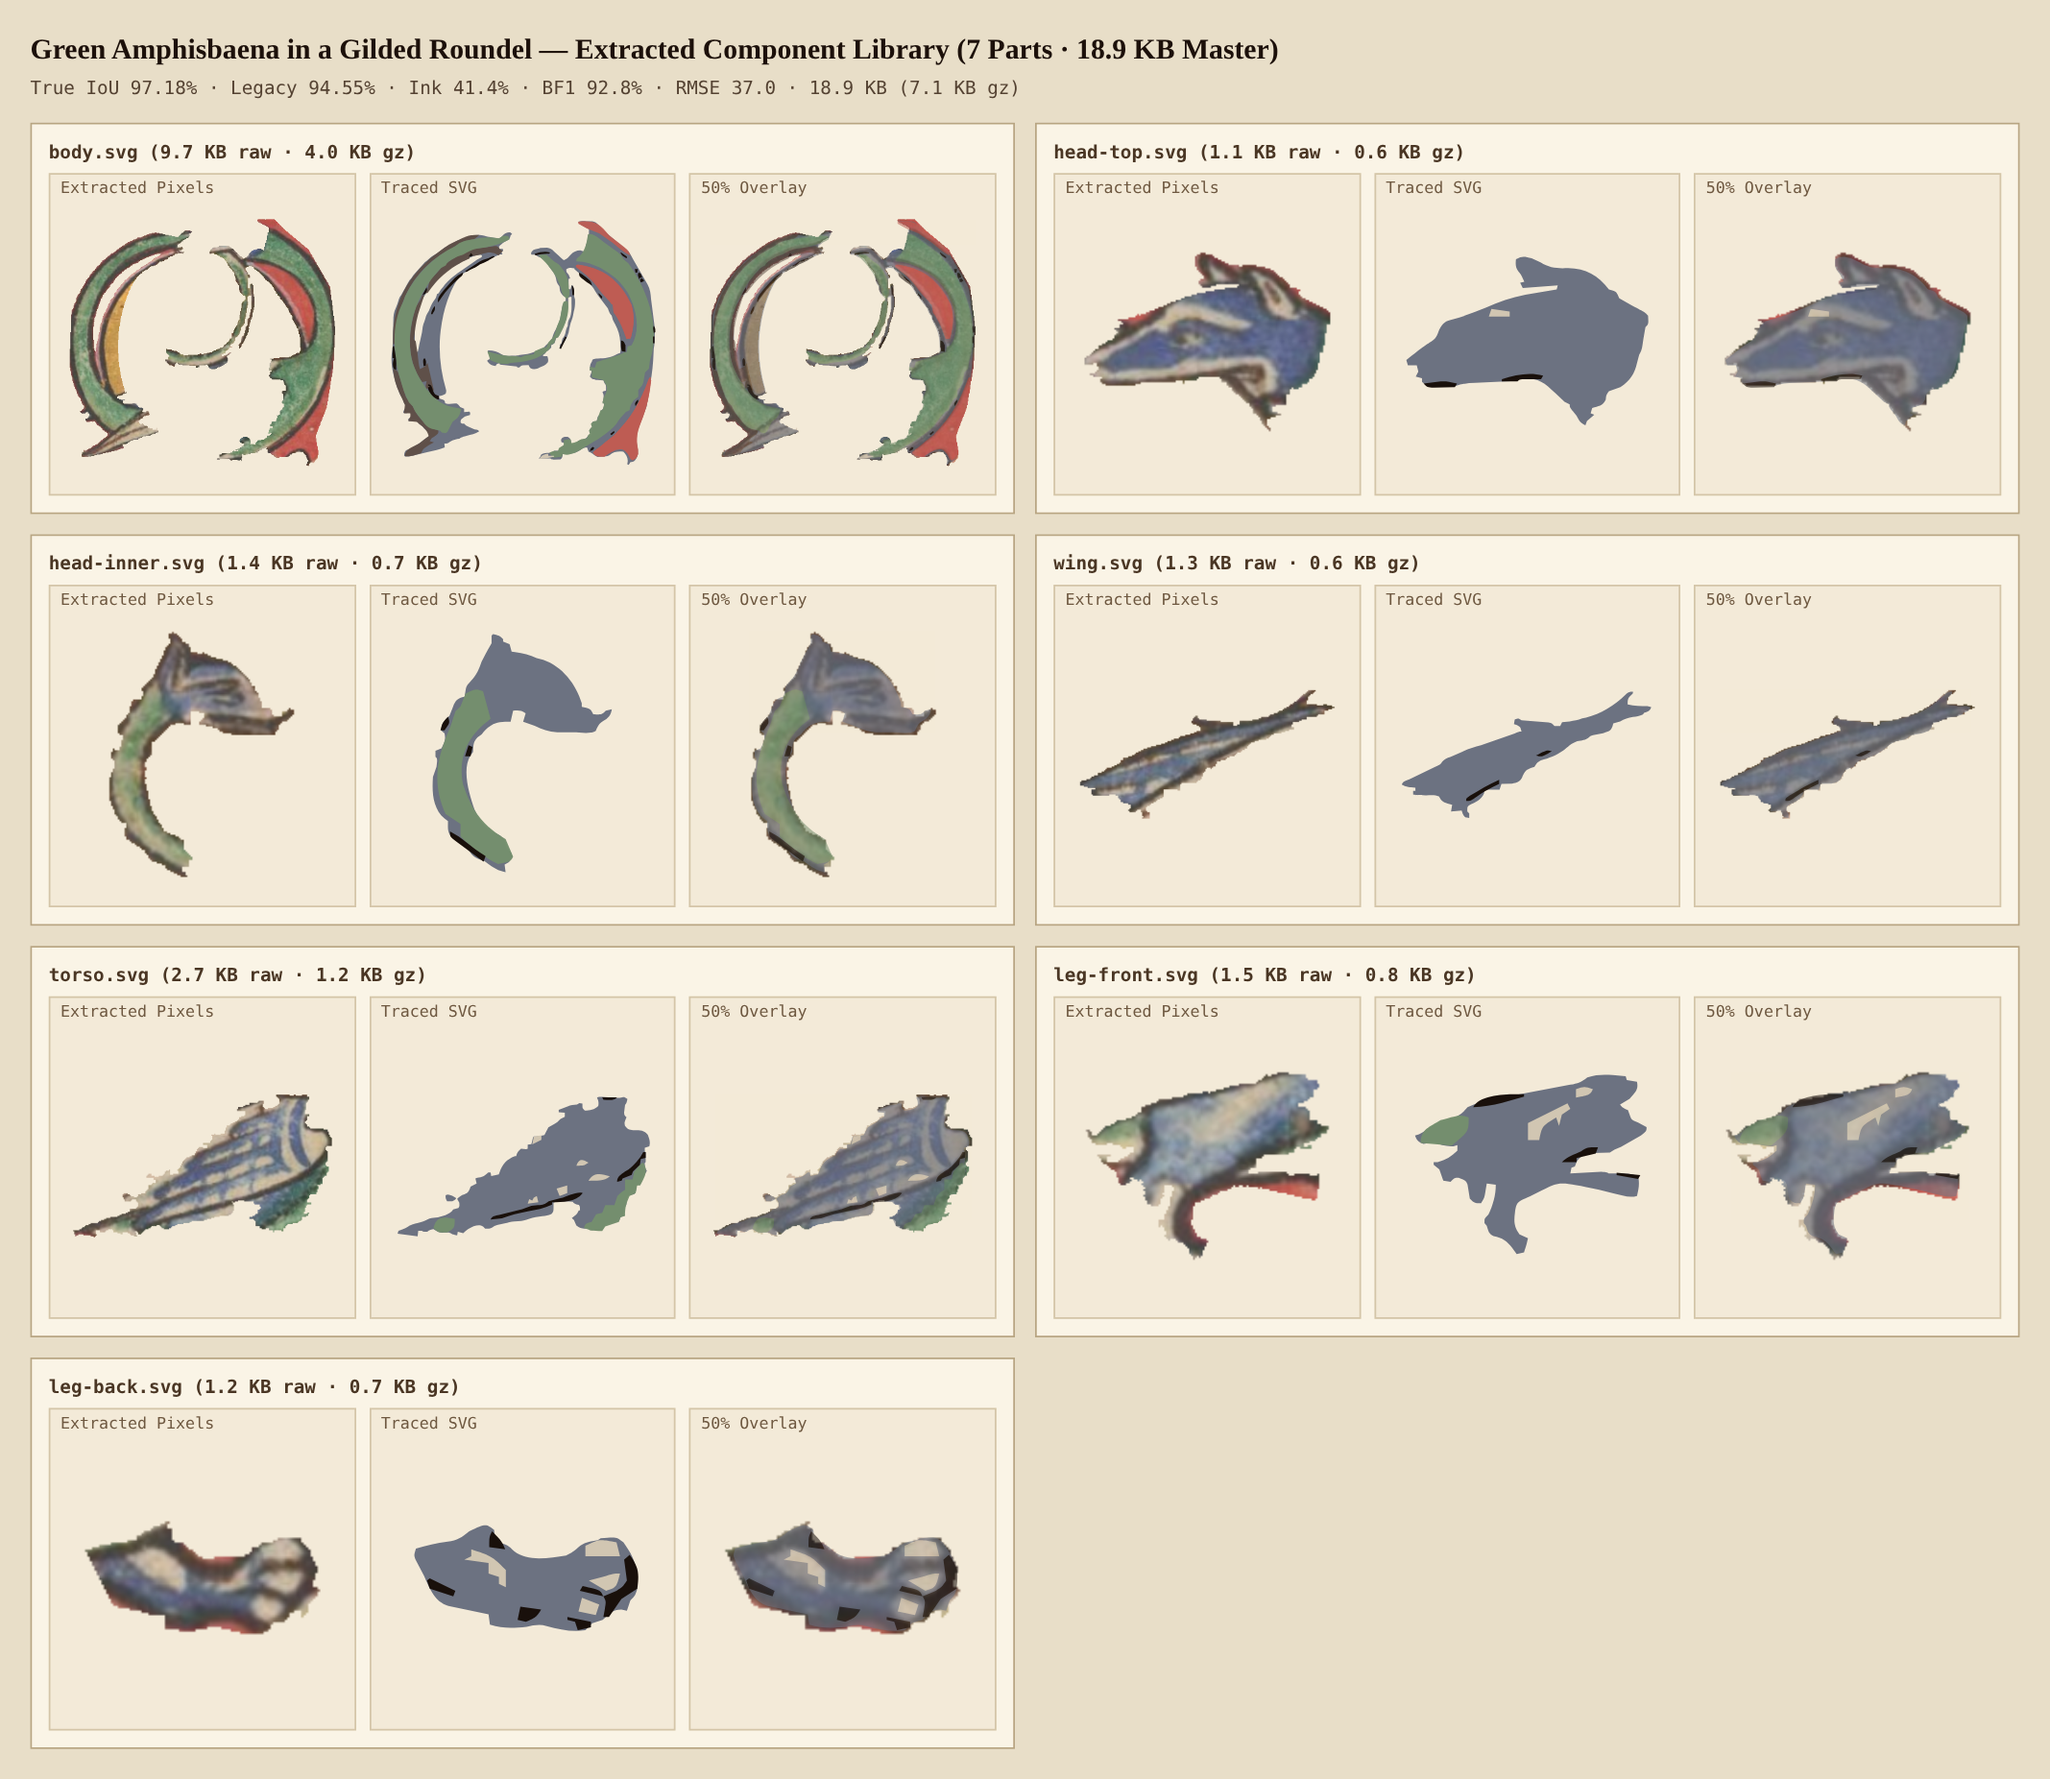
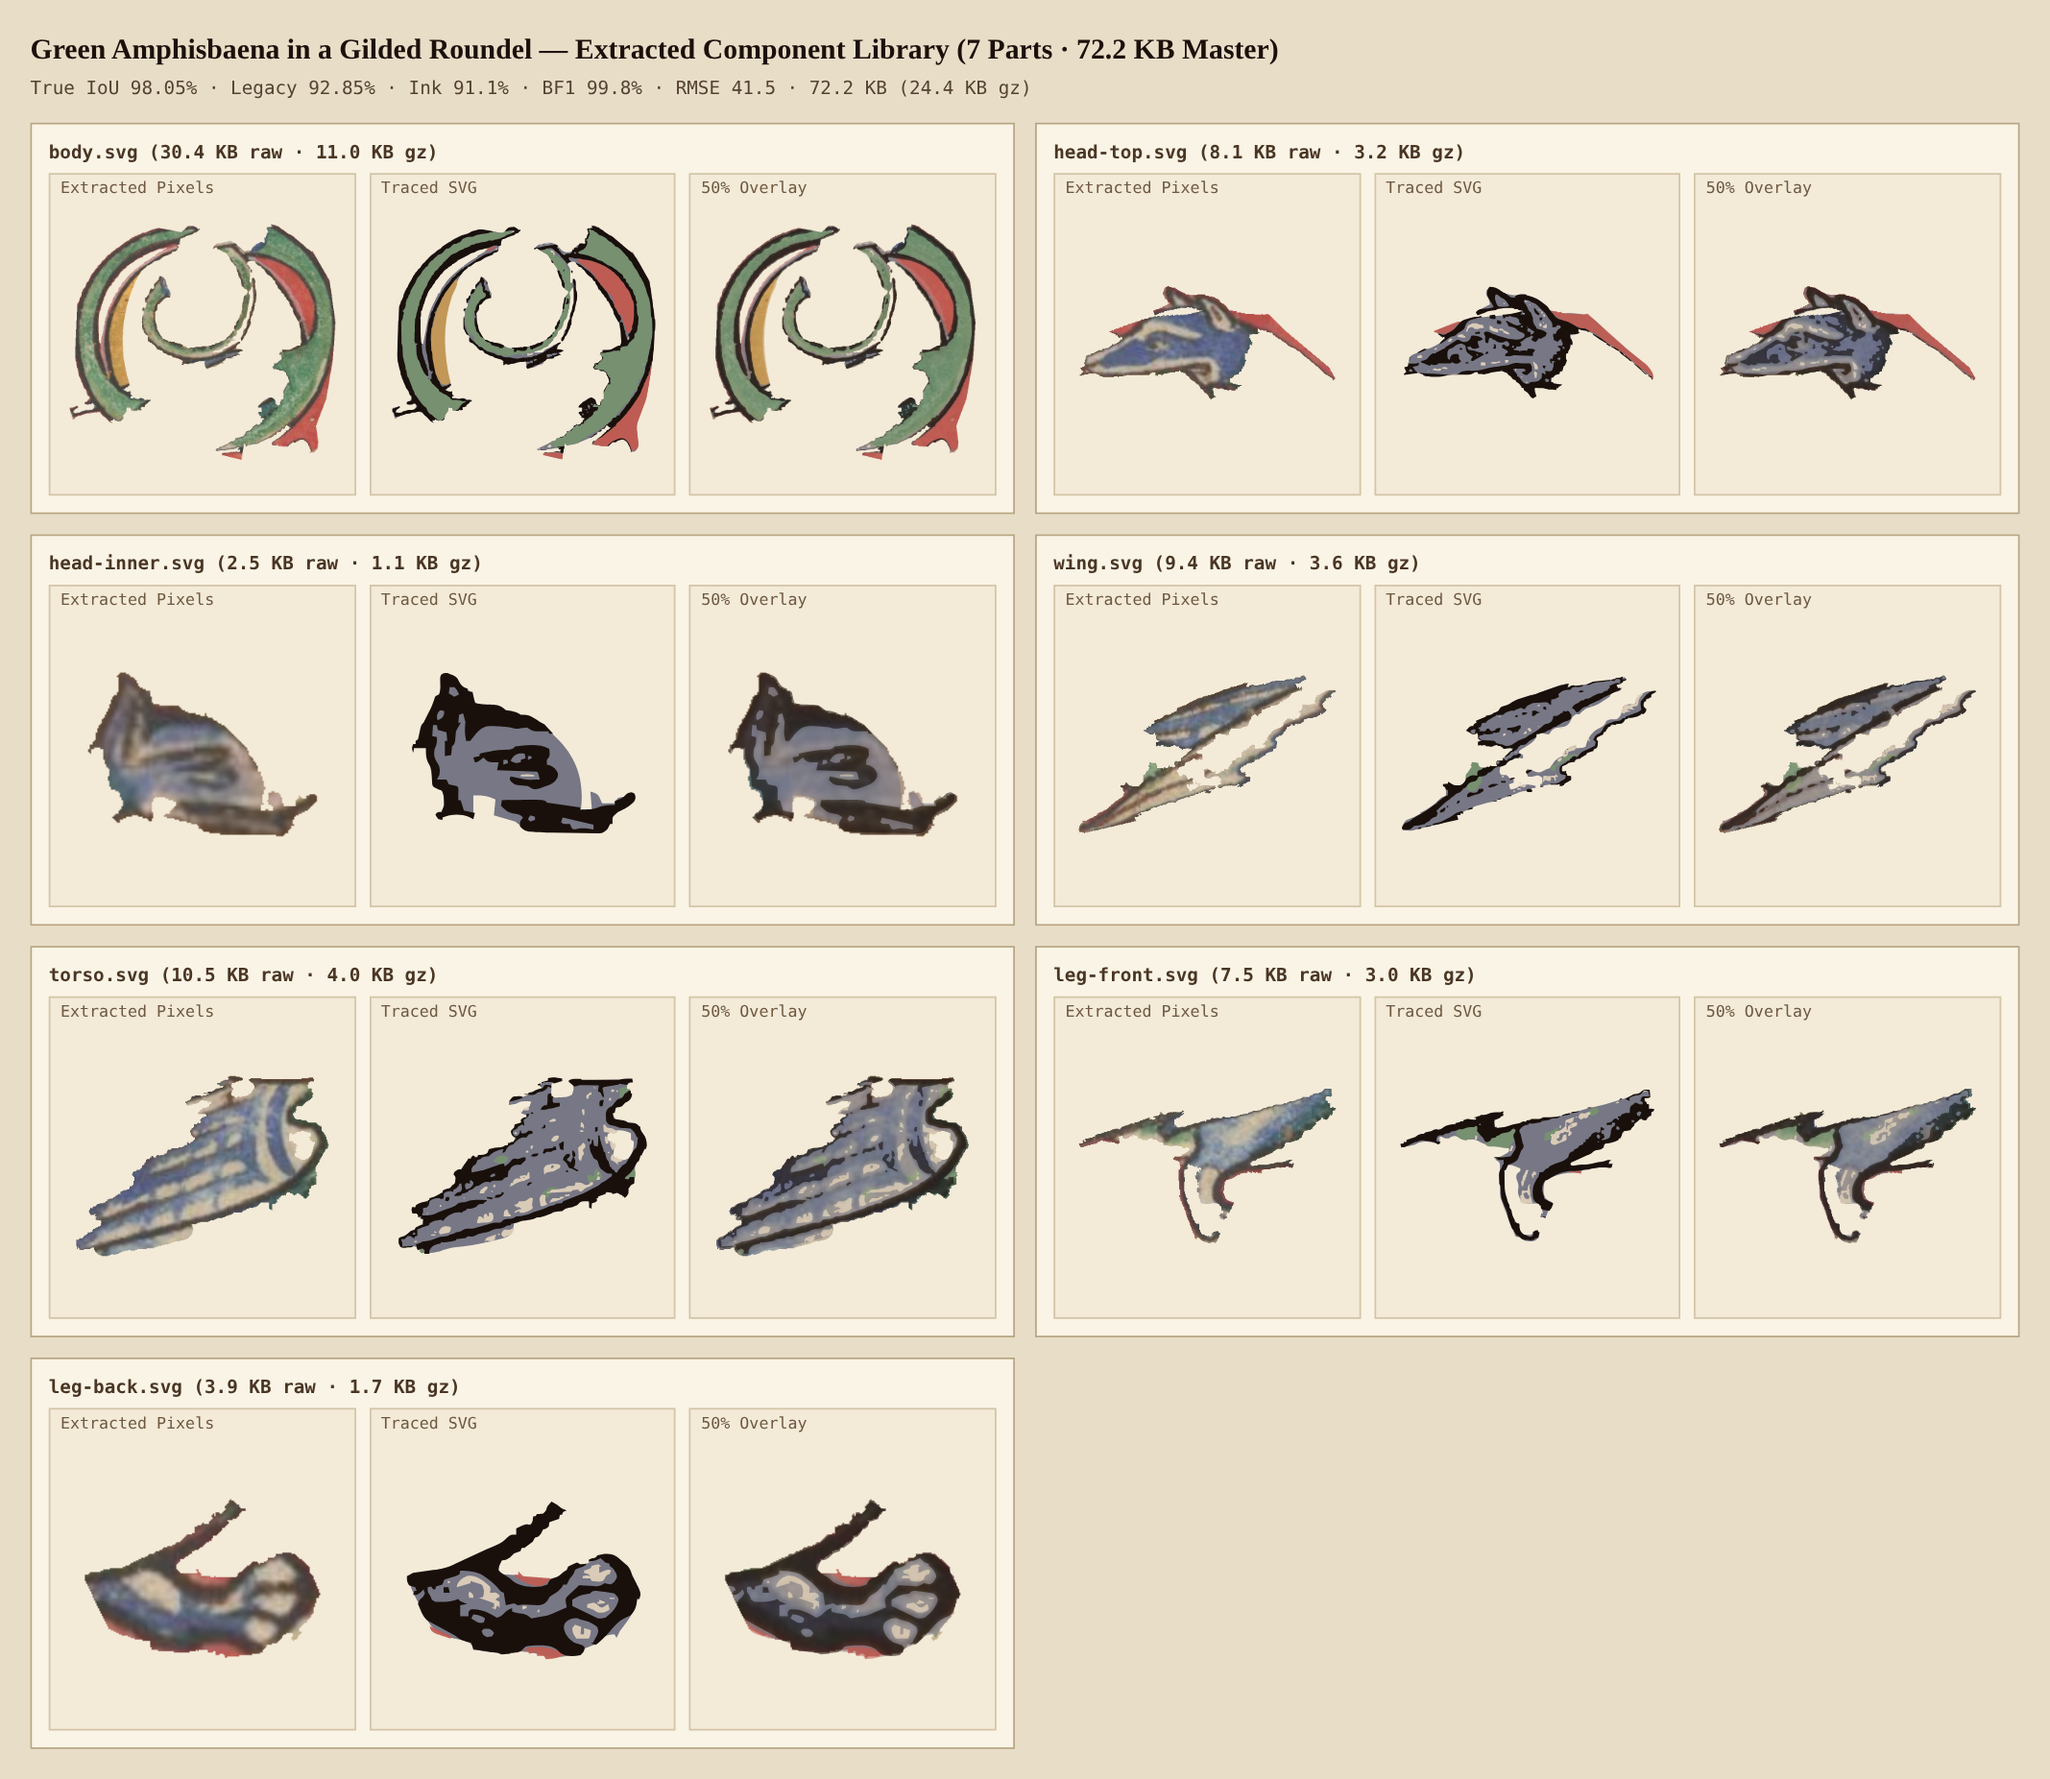
Retrace the green amphisbaena roundel with the fine-detail preset

diff --git a/docs/art/bestiary/traced/QUEUE.md b/docs/art/bestiary/traced/QUEUE.md
@@ -14,7 +14,7 @@ Pencil and pen drawings give outlines, to be filled in. Painted ones give the il
 | 7 | `7-crescent-amphisbaena.jpg` | `crescent-amphisbaena` | painted on parchment | traced (98.3% silhouette, preset `parchment_pale_subject`, tight hand-drawn include polygon): heads now whole with eyes, ears and mouths and the mound is out; weak: faint green wash still leaks as a block behind the left head's ear wisps, belly fur is a detached brown slab, ink linework still chunky **Fine retrace (`parchment_pale_subject_fine`): silhouette 98.3%, ink IoU 50.0% -> 86.9%; head ink, eyes, belly fur and spots now read; faint green wash block still behind the left head's ear wisps.** |
 | 8 | `8-winged-amphisbaena-linear.jpg` | `winged-amphisbaena-linear` | painted on parchment | traced (98.2% silhouette, preset `parchment_pale_subject`, 7 parts): both heads, wing, torso, two legs and tan neck/spiral tail separate, text excluded; weak: right head's wash is mottled, the wing-over-tail overlap line is soft **Fine retrace (`parchment_pale_subject_fine`, now the only spec for this creature): silhouette 98.3%, ink IoU 67.9% -> 86.2%; eyes, brows, nostrils and ear lines back; right head wash still mottled.** |
 | 9 | `9-outline-amphisbaena-roundel.jpg` | `outline-amphisbaena-roundel` | pen outline, roundel | traced (95.0% silhouette, preset `monochrome_woodcut` on a contrast-stretched copy, `derived/contrast_outline.py`, because the raw pen line is too faint to threshold): clean ink outline of coil, both heads, wing and feet with the roundel rings cut off; weak: only wing, heads, torso and feet are filled, the coiled neck tube stays open line, one stray ring arc above the upper head, wing feathering is broken |
-| 10 | `10-green-amphisbaena-roundel.jpg` | `green-amphisbaena-roundel` | painted roundel, gold centre | traced (97.2% silhouette, preset `gilded_romanesque`, hand-drawn include polygon hugging the coil to keep out the red field, blue ring, gold and text): 7 parts, both heads blue with ears and mouths, wing, torso and legs separate; weak: red field still leaks as a crimson sliver down the right edge, the pink/red inner bands and the gold sliver inside the coil are kept, ink linework is partial |
+| 10 | `10-green-amphisbaena-roundel.jpg` | `green-amphisbaena-roundel` | painted roundel, gold centre | traced (97.2% silhouette, preset `gilded_romanesque`, hand-drawn include polygon hugging the coil to keep out the red field, blue ring, gold and text): 7 parts, both heads blue with ears and mouths, wing, torso and legs separate; weak: red field still leaks as a crimson sliver down the right edge, the pink/red inner bands and the gold sliver inside the coil are kept, ink linework is partial **Fine retrace (`gilded_romanesque_fine`): silhouette 98.1%, ink IoU 41.4% -> 91.1%; head outlines, eyes, ear and mouth lines and the coil outline are now crisp, but dark-blue pigment on heads, wing and torso is traced as black blotches (over-inked), kept as the better of the two.** |
 | 11 | `11-sketch-amphisbaena.jpg` | `sketch-amphisbaena` | ink sketch | traced as outline only (93.2% silhouette, preset `monochrome_woodcut` on a binarised, thickened copy, `derived/contrast_outline.py ... 0.80 0.82 5`; the raw faint sketch gave only fragments): coils, both heads, wing struts and claws read as ink lines, text and red rule excluded; weak: lines are thickened and speckled, no real fill silhouette (one stray blob), horn and right-hand plumes partly lost, component split not checked by eye |
 | 12 | `12-orange-amphisbaena-gilded.jpg` | `orange-amphisbaena-gilded` | gilded, painted roundel | waiting |
 | 13 | `13-striped-amphisbaena-roundel.jpg` | `striped-amphisbaena-roundel` | painted roundel | waiting |
